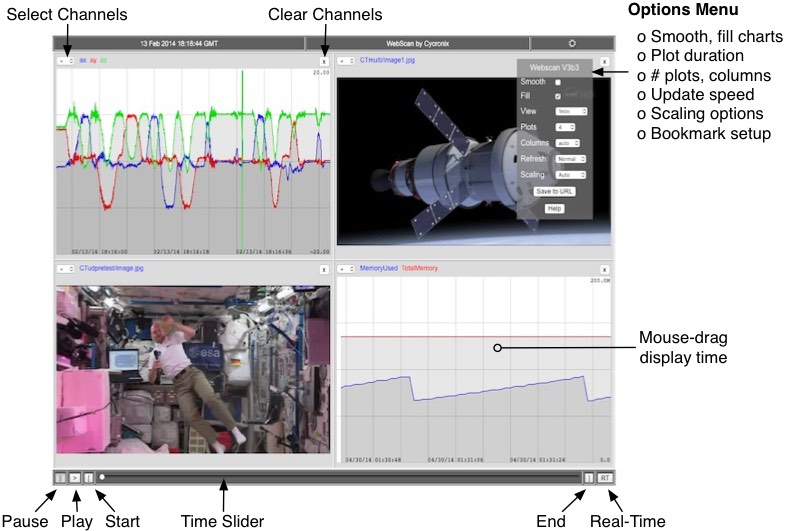
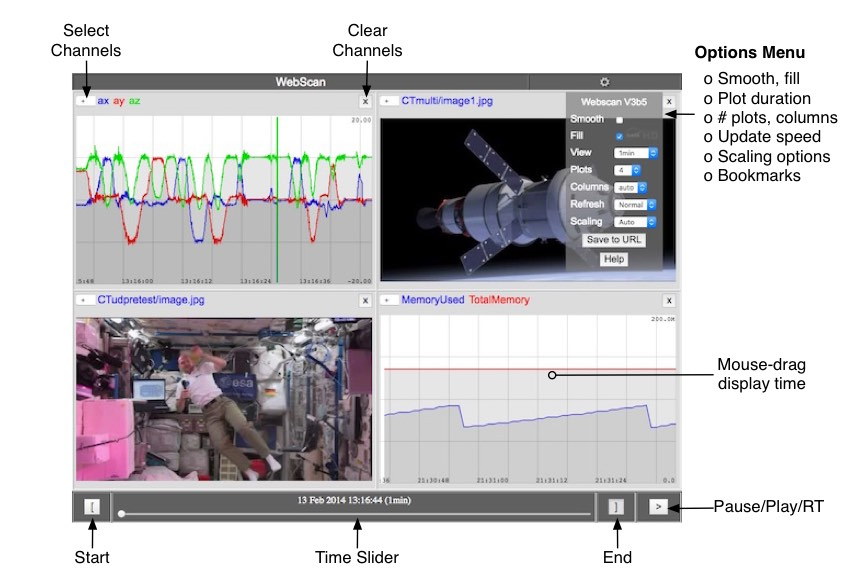
improved RT mode
real-time playback now simply a form of regular playback, go to end of
data and play-forward.

diff --git a/webscan.js b/webscan.js
@@ -88,7 +88,7 @@ var singleStep=false;				// set based on RTrate/View ratio
 var isImage=false;					// latest plot is image?
 var numCol=0;						// numcols per plot row (0=auto)
 var reScale=true;					// one shot rescale flag
-var rtmode=0;						// real-time mode flag
+var rtmode=1;						// real-time mode flag (rtmode==1 for latest play-RT MJM 8/24/16)
 var playStr="&gt;";					// ">" play mode
 
 top.rtflag=0;						// RT state (for eavesdroppers)
@@ -301,7 +301,8 @@ function configParams(src) {
 	var server   = getURLParam(src,'sv'); 	if(server != null) serverAddr = server;			setConfig('sv', serverAddr);
 
 	// RT mode (one-shot param)
-	rtmode 	 	 = Number(getURLParam(src,'rt'));
+	var irtm  	 = getURLParam(src,'rt'); 	if(irtm!=null) rtmode=Number(irtm);
+	
 //	console.debug('configParams, tDelay: '+tDelay+", nplot: "+nplot+', rtmode: '+rtmode);
 	
 	for(var i=0; i<nplot; i++) {
@@ -758,7 +759,7 @@ function rtCollection(time) {
 
 		if(dfetch <= 0) return;		// nothing new
 		
-		if((tfetch>=newestTime||tfetch<oldestTime) && top.rtflag!=RT) {
+		if((tfetch>=newestTime||tfetch<oldestTime) && (top.rtflag!=RT && rtmode==0)) {		// keep rolling if rtmode!=0
 			if(debug) console.log('EOF, stopping monitor');
 			clearInterval(intervalID);		// notta to do
 			intervalID = 0;
@@ -768,8 +769,7 @@ function rtCollection(time) {
 		
 		var now = new Date().getTime();
 
-		console.debug("singleStep: "+singleStep+", rtmode: "+rtmode);
-		if(singleStep && rtmode==0) {										// delayed-start so as not to pre-scroll too much
+		if(singleStep) {										// delayed-start so as not to pre-scroll too much
 			for(var j=0; j<plots.length; j++) plots[j].start();			
 			singleStep = false;
 		}
@@ -781,10 +781,11 @@ function rtCollection(time) {
 				var param = plots[j].params[i];
 				if(endsWith(param,".jpg")) continue;
 				anyplots=true;	
-				if(rtmode==0)
-				fetchData(plots[j].params[i], j, dfetch, tfetch, "absolute");		// fetch latest data (async) 
-				else
-				fetchData(plots[j].params[i], j, getDuration(), 0, "newest");		// newest data with possible overlap
+				
+				if(top.rtflag==RT && rtmode==2)
+					fetchData(plots[j].params[i], j, getDuration(), 0, "newest");		// newest data with possible overlap
+				else 
+					fetchData(plots[j].params[i], j, dfetch, tfetch, "absolute");		// fetch latest data (async) 
 			}
 		}
 	
@@ -814,20 +815,20 @@ function rtCollection(time) {
 	intervalID2 = 
 		setInterval(
 			function() {
-				var ptime = playTime() + getDuration()/2;	// video at mid-duration of plot (better audio sync)	
+				var ptime = playTime(); // + getDuration()/2;	// video at mid-duration of plot (better audio sync)	
 //				if(ptime <= lastvideoTime) return;			// hasn't progressed enough to matter
 				anyvideo = false;
 				for(var j=0; j<plots.length; j++) {
 					if(plots[j].type != 'video') continue;		// non-video go 1/10 nominal rate
 					anyvideo = true;
 					if(debug) console.debug("video fetch ptime: "+ptime+", lastvideoTime: "+lastvideoTime);
-					if(rtmode==0)
-					fetchData(plots[j].params[0], j, 0, ptime, "absolute");			// RT->playback mode (gappy)
+					if(top.rtflag==RT && rtmode==2)
+						fetchData(plots[j].params[0], j, 0, 0, "newest");				// RT newest mode (overlap/inefficient)		
 					else
-					fetchData(plots[j].params[0], j, 0, 0, "newest");				// RT newest mode (overlap/inefficient)			
+						fetchData(plots[j].params[0], j, 0, ptime, "absolute");			// RT->playback mode (gappy)
 				}
 
-				if(!anyvideo || (ptime>=newestTime && top.rtflag!=RT)) {	
+				if(!anyvideo || (ptime>=newestTime && (top.rtflag!=RT && rtmode==0))) {	// keep rolling rtmode!=0
 					if(debug) console.log('no video, stopping monitor');
 					clearInterval(intervalID2);		// notta to do
 					intervalID2 = 0;
@@ -847,8 +848,9 @@ var NCOUNT=20;			// number of updates over which to average sumLag
 function playTime() {		// time at which to fetch (msec)
 	var now = new Date().getTime();
 	
-	if(top.rtflag != RT) {		// playback mode:  let system-clock drive pace relative to fixed offset
+	if(top.rtflag != RT || rtmode==1) {		// playback mode:  let system-clock drive pace relative to fixed offset
 		var ptime = now - playDelay;					// playFwd
+//		if(rtmode==1) ptime -= getDuration();		// FOO debug
 		if(debug) 
 			console.debug('playTime, now: '+now+', playDelay: '+playDelay+', playTime: '+ptime+", newestTime: "+newestTime);
 		return ptime;
@@ -1314,7 +1316,7 @@ function updatePauseDisplay(mode) {
 // 		document.getElementById('>').innerHTML = "||";
 		document.getElementById('play').innerHTML = playStr;
 	}
-	else if(mode==RT) 		document.getElementById('RT').checked=true;
+	else if(mode==RT && rtmode==0) 	document.getElementById('RT').checked=true;
 	else if(mode==PLAY) {
 //		document.getElementById('>').innerHTML = ">";
 		document.getElementById('play').innerHTML="||";
@@ -1326,7 +1328,7 @@ function updatePauseDisplay(mode) {
 
 function rePlay() {
 	var mode = PAUSE;
-	if(document.getElementById('RT').checked) mode = RT;
+	if(rtmode==0 && document.getElementById('RT').checked) mode = RT;
 	else if(document.getElementById('play').innerHTML=="||") mode = PLAY;
 
 	if(mode==PAUSE && !isImage && oldestTime > 0) {
@@ -1502,7 +1504,8 @@ function setTimeNoSlider(time) {
 //	var dstring = d.toUTCString();
 //	dstring = dstring.split(", ")[1];		// string leading "Day, "
 
-	var dstring = ("0"+(d.getDate()+1)).slice(-2) + " " + month[d.getMonth()] + " " + 
+//	var dstring = ("0"+(d.getDate()+1)).slice(-2) + " " + month[d.getMonth()] + " " + 
+	var dstring = ("0"+d.getDate()).slice(-2) + " " + month[d.getMonth()] + " " + 
     d.getFullYear() + " " + ("0" + d.getHours()).slice(-2) + ":" + ("0" + d.getMinutes()).slice(-2) + ":" + ("0" + d.getSeconds()).slice(-2);
 	
 	var cb = document.getElementById('myDuration');
@@ -3334,6 +3337,11 @@ function vidscan(param) {
     				if(debug) console.log('Warning, xmlhttp.status: '+xmlhttp.status);
     				if	   (url.indexOf("r=next") != -1) paramTime[param] = 99999999999999;
     	    		else if(url.indexOf("r=prev") != -1) paramTime[param] = 0; 
+    				
+					else if((getTime() >= newestTime) || (xmlhttp.status != 410 && xmlhttp.status != 404)) {	// keep going (over gaps)
+						if(debug) console.log('stopping on xmlhttp.status: '+xmlhttp.status+", time: "+getTime()+", newestTime: "+newestTime);
+						goPause();
+					}
 //    				if(top.rtflag==RT) adjustPlayDelay(100);    			// need?	
     				// following alert can be deadly lock-up loop on ipad:  add status field to display?
 //    				alert('Error on image fetch! '+url+', status: '+xmlhttp.status);

diff --git a/webscan.htm b/webscan.htm
@@ -43,9 +43,8 @@
 <div id="dcontrols">
 <table id="controls" class="a" align="center" border=1 height="100%">
 <tr>
-	<td style="white-space: nowrap;"> <input type="radio" name="radios" id=">"> <label id="play" for=">" onclick="togglePlay(this);">&gt;</label> </td> 
 	<td style="white-space: nowrap;"> <input type="radio" name="radios" id="|<"> <label for="|<"  onMouseDown="goBOF()"	>[</label> </td> 
-	<td width="75%">
+	<td width="80%">
 	<table align="center" width="100%">
 	<tr align="center">
 	<td style="white-space: nowrap; align="center" width="100%"><label class="t" id="timestamp">TimeStamp</></td>
@@ -56,7 +55,10 @@
 	</table>
 	</td>
 	<td style="white-space: nowrap;"> <input type="radio" name="radios" id=">|"> <label for=">|"  onMouseDown="goEOF()"	>]</label> </td> 
+	<td style="white-space: nowrap;"> <input type="radio" name="radios" id=">"> <label id="play" for=">" onclick="togglePlay(this);">&gt;</label> </td> 
+<!--
 	<td style="white-space: nowrap;"> <input type="radio" name="radios" id="RT"> <label for="RT"  onMouseDown="goRT()"	>RT</label> </td> 
+-->
 </tr>
 </table>
 </div>
@@ -65,7 +67,7 @@
 
 <div id="options"  border=1>
     <table class="o">
-    	<tr><td colspan=2 align="center">Webscan V3b4</td></tr>
+    	<tr><td colspan=2 align="center">Webscan V3b5</td></tr>
         <tr><td>Smooth</td><td><input id="smooth" type="checkbox" onclick="smoothCheck(this)"></td></tr>
         
         <tr><td>Fill</td><td><input id="fill" type="checkbox" onclick="fillCheck(this)"></td></tr>
